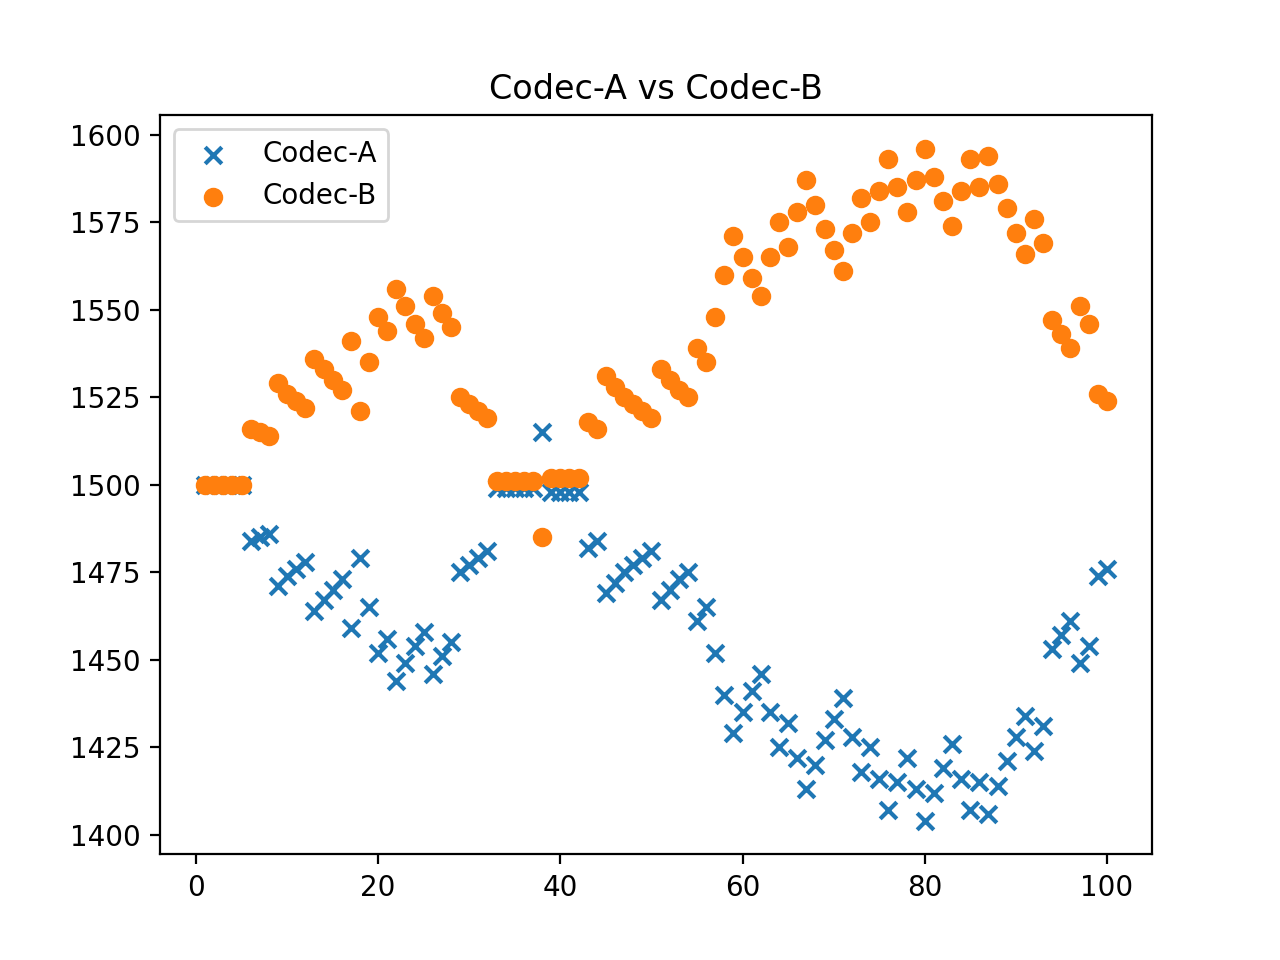
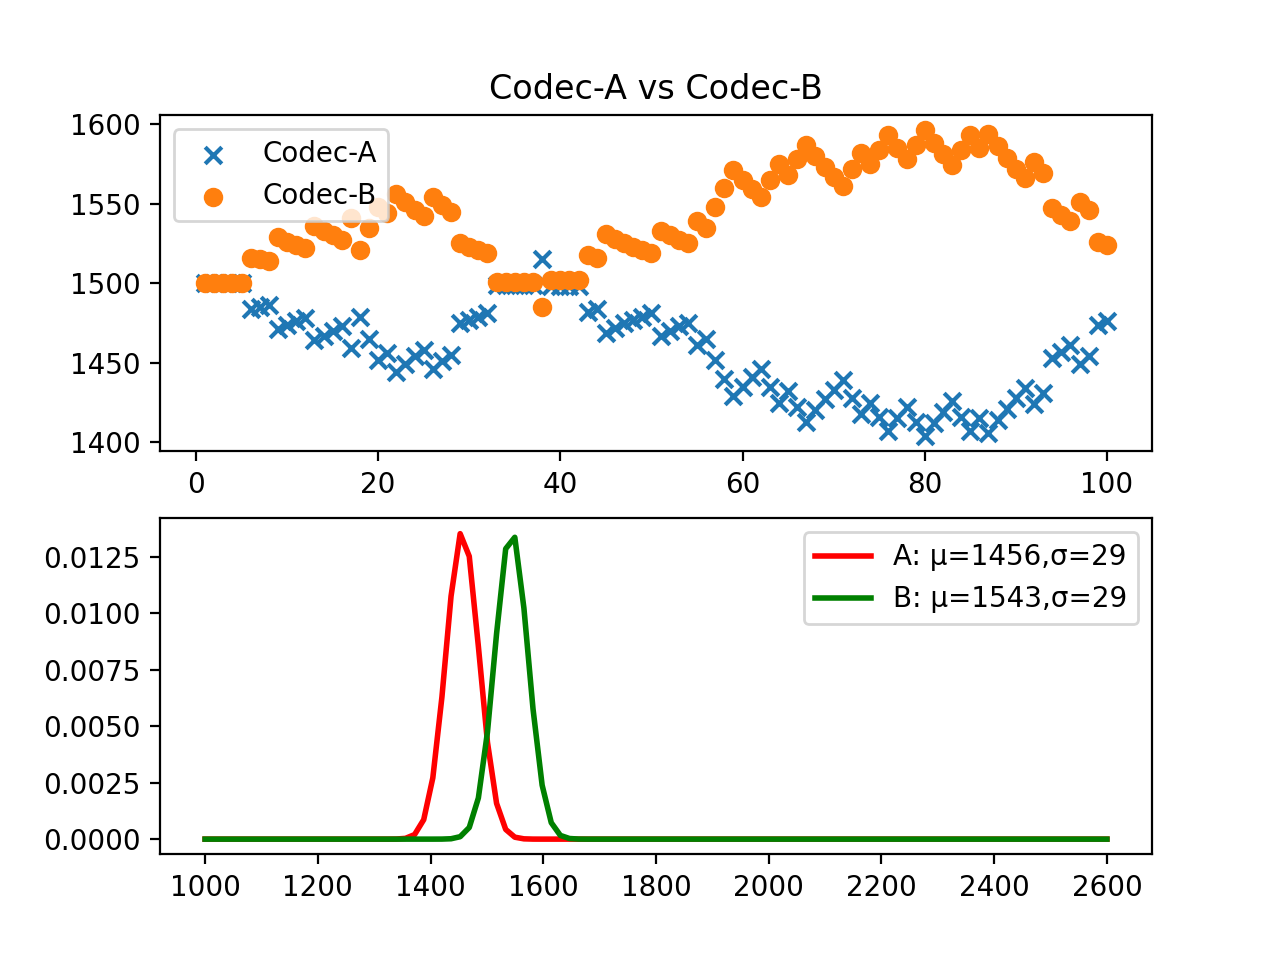
add elo rating

diff --git a/source/_posts/the-interesting-elo-rating-system/elo.py b/source/_posts/the-interesting-elo-rating-system/elo.py
@@ -70,6 +70,7 @@ class EloScore:
 
 import matplotlib.pyplot as plt
 import numpy as np
+import random as rd
 
 def eloDiffScoreDistribution():
     """
@@ -117,9 +118,104 @@ def getEloScores():
         X.append(len(X) + 1)
 
     print(eloscore.ratingA, "\t", eloscore.ratingB)
-    
+    mean_A = np.mean(A)
+    mean_B = np.mean(B)
+    std_A = np.std(A)
+    std_B = np.std(B)
+
+    plt.subplot(2, 1, 1)
     plt.scatter(X, A, marker='x', label='Codec-A')
     plt.scatter(X, B, marker='o', label='Codec-B')
+    plt.legend(loc="best")
+    plt.title('Codec-A vs Codec-B')
+
+    plt.subplot(2, 1, 2)
+    x = np.linspace(1000, 2600, 100)
+    mu = mean_A
+    sigma = std_A
+    plt.plot(x, 1/(sigma * np.sqrt(2 * np.pi)) * np.exp(- (x - mu)**2 / (2 * sigma**2)),
+        linewidth=2, color='r', label=r"A: μ=%d,σ=%d" % (mu, sigma))
+    
+    mu = mean_B
+    sigma = std_B
+    plt.plot(x, 1/(sigma * np.sqrt(2 * np.pi)) * np.exp(- (x - mu)**2 / (2 * sigma**2)),
+        linewidth=2, color='g', label=r"B: μ=%d,σ=%d" % (mu, sigma))
+    plt.legend(loc="best")
+
+def getBootstrapEloScores():
+    """
+    打断顺序计算编解码器的Elo得分，观察比赛顺序对Elo得分的影响
+    """
+    eloscore = EloScore(1500, 1500)
+    A = []
+    B = []
+    X = []
+    MOS = []
+    lines = open("MOS").readlines()
+    for m in lines:
+        m = int(m.rstrip())
+        MOS.append(m)
+
+    i = 0
+    while i < 6:
+        A = []
+        B = []
+        X = []
+        for m in MOS:
+            actualResults = eloscore.computeScoreFromMos(m)
+            eloscore.computeEloScore(actualResults)
+            A.append(eloscore.ratingA)
+            B.append(eloscore.ratingB)
+            X.append(len(X) + 1)
+
+        plt.subplot(2, 3, i + 1)
+        plt.scatter(X, A, marker='x', label='Codec-A')
+        plt.scatter(X, B, marker='o', label='Codec-B')
+        plt.legend(loc="upper left")
+
+        if i == 0:
+            plt.title('Original Sequence')
+        else:
+            plt.title("The %d Shuffle" % (i) )
+
+        i += 1
+        rd.shuffle(MOS)
+
+def getABDistribution():
+    """
+    根据视频的MOS分计算编解码器的Elo得分
+    """
+    eloscore = EloScore(1500, 1500)
+    A = []
+    B = []
+    X = []
+
+    lines = open("MOS").readlines()
+    for mos in lines:
+        mos = int(mos.rstrip())
+        actualResults = eloscore.computeScoreFromMos(mos)
+        eloscore.computeEloScore(actualResults)
+        A.append(eloscore.ratingA)
+        B.append(eloscore.ratingB)
+        X.append(len(X) + 1)
+
+    mean_A = np.mean(A)
+    mean_B = np.mean(B)
+    std_A = np.std(A)
+    std_B = np.std(B)
+
+    print(mean_A, "\t", std_A, "\t", mean_B, "\t", std_B)
+    
+    x = np.linspace(1000, 2600, 100)
+    mu = mean_A
+    sigma = std_A
+    plt.plot(x, 1/(sigma * np.sqrt(2 * np.pi)) * np.exp(- (x - mu)**2 / (2 * sigma**2)),
+        linewidth=2, color='r', label=r"A: μ=%d,σ=%d" % (mu, sigma))
+    
+    mu = mean_B
+    sigma = std_B
+    plt.plot(x, 1/(sigma * np.sqrt(2 * np.pi)) * np.exp(- (x - mu)**2 / (2 * sigma**2)),
+        linewidth=2, color='g', label=r"B: μ=%d,σ=%d" % (mu, sigma))
     plt.legend(loc="best")
     plt.title('Codec-A vs Codec-B')
 
@@ -172,7 +268,9 @@ def getNormalDistribution():
 if __name__ == "__main__":
     # eloDiffScoreDistribution()
     # eloScoreDistribution()
-    getEloScores()
+    # getEloScores()
     # getTwoNormalDistribution()
     # getNormalDistribution()
+    getBootstrapEloScores()
+    
     plt.show()

diff --git a/source/_posts/the-interesting-elo-rating-system.md b/source/_posts/the-interesting-elo-rating-system.md
@@ -183,6 +183,12 @@ MOS_Scores = [61, 55, 54, 65, 15]
 
 另外，对于视频评估而言，我们认为，给定两个编码器赋以相同的初始分（假定两个编解码器效果一致）更为合理。
 
+### 视频顺序对 Elo 的影响
+如前所述，初始分数有可能会对 Elo 带来影响，但是因为 Elo 的收敛特性，当视频样本足够多的时候，视频顺序不会影响最终的 Elo 得分。
+
+为此，我们对视频顺序进行了随机排序，然后再来计算 Elo 得分。我们发现，视频顺序变换后，并没有影响最终的结论。
+![](10.png)
+
 ## 参考文献
 [^1]: [Elo Rating System](https://www.chess.com/terms/elo-rating-chess)
 [^2]: [Elo Rating System](https://en.wikipedia.org/wiki/Elo_rating_system)
